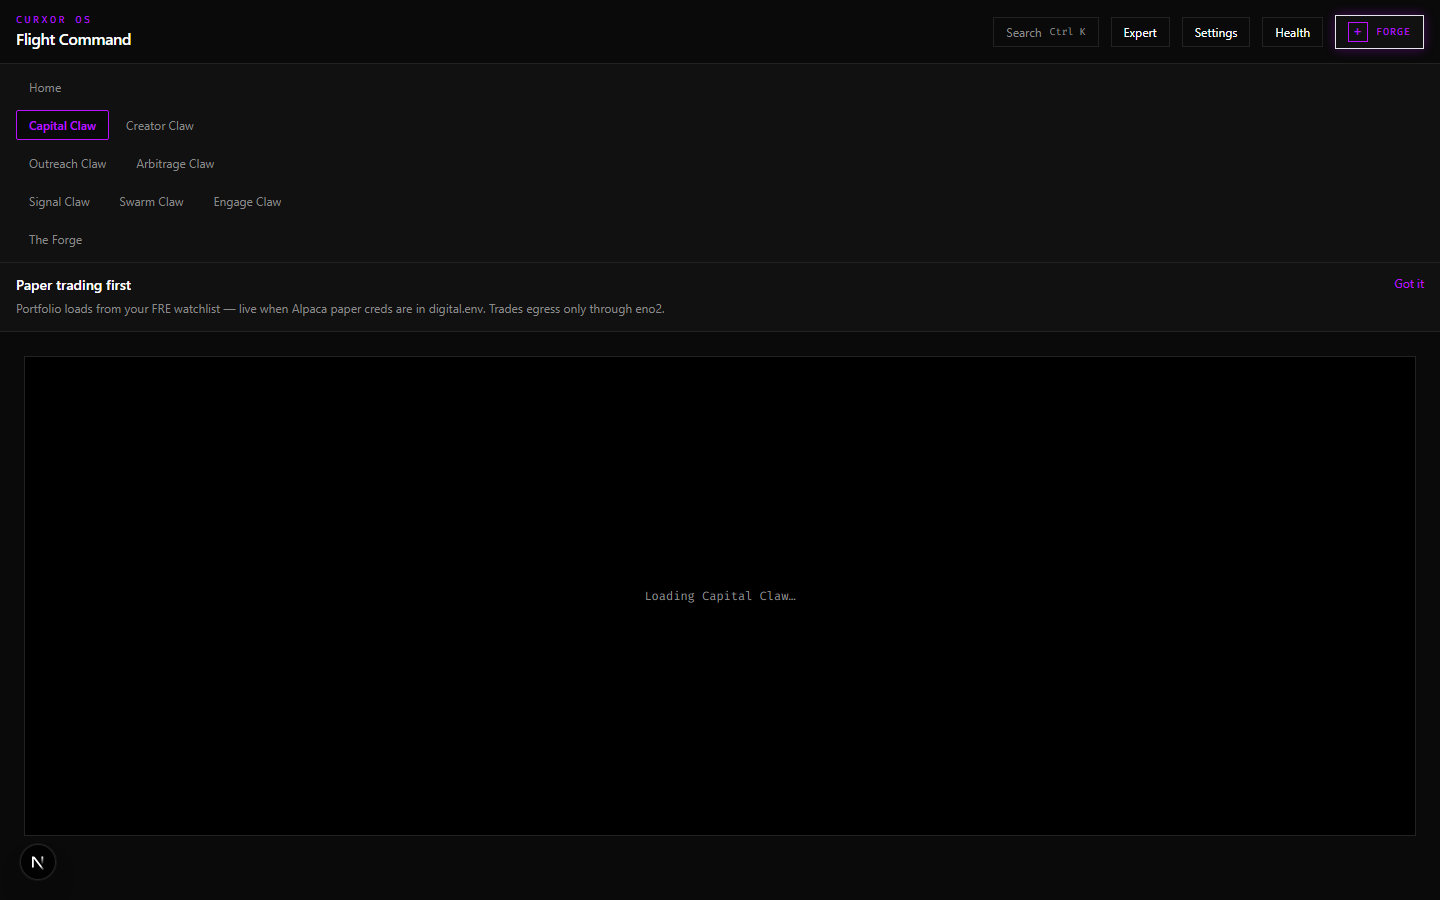
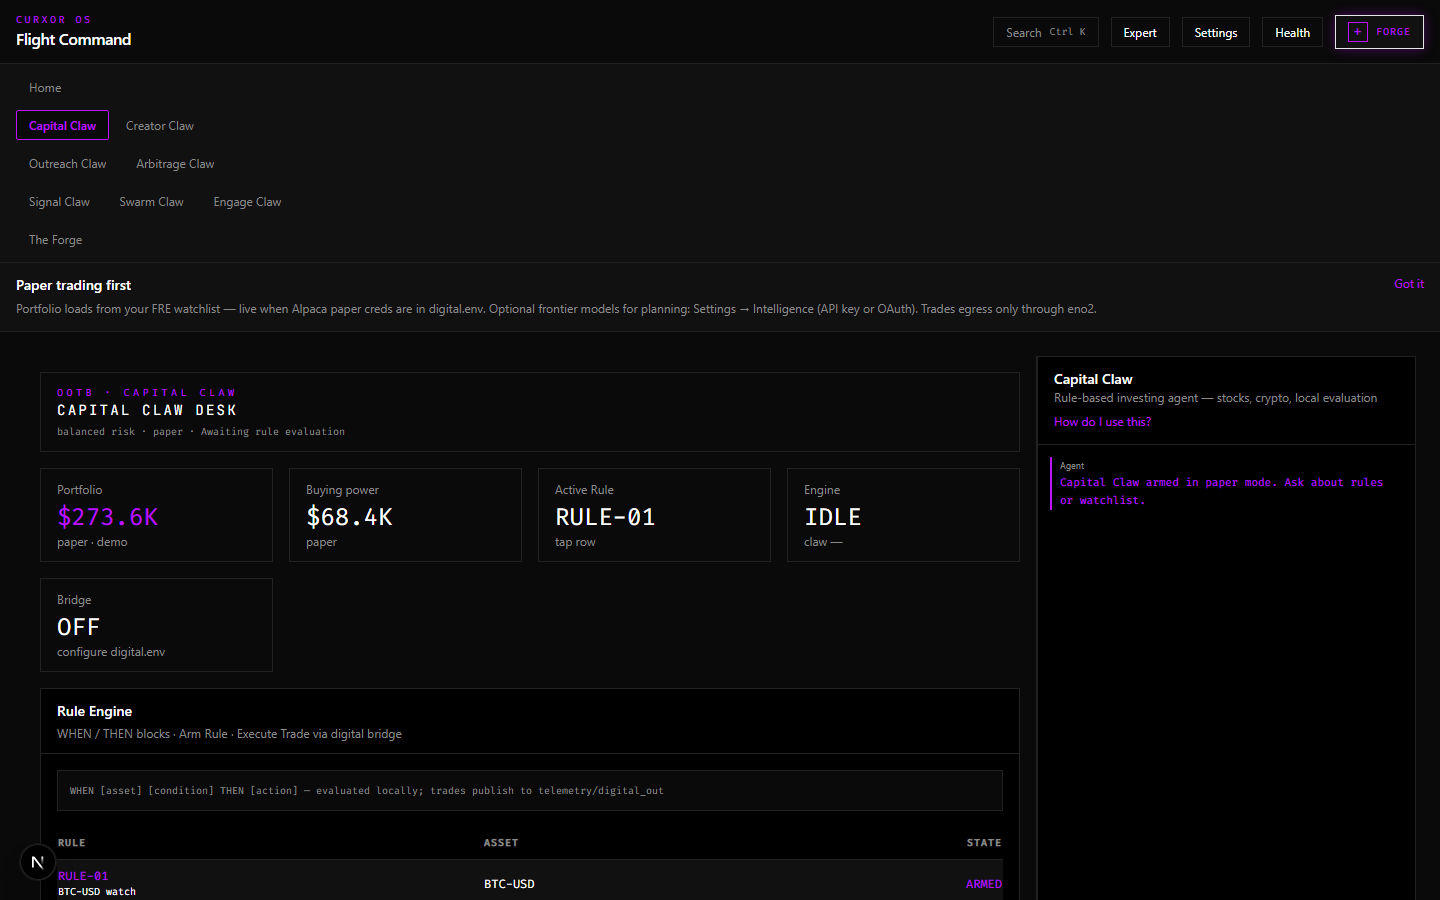
Add release-notes.json and demo capture troubleshooting docs.

diff --git a/docs/demo-pack/README.md b/docs/demo-pack/README.md
@@ -1,53 +1,81 @@
-# Flight Command demo pack
-
-Screenshots and copy for storefront, pitch deck, and investor collateral.
-
-## Capture screenshots
-
-1. Start the dashboard with dev-qa seed data:
-
-```bash
-cd pillar-4-dashboard
-export CURXOR_FRE_STATE_PATH=$PWD/scripts/dev-qa/fre-state.json
-export CURXOR_USER_SETTINGS_PATH=$PWD/scripts/dev-qa/user-settings.json
-export CURXOR_APP_FRE_DIR=$PWD/scripts/dev-qa/app-fre
-npm run dev
-```
-
-2. Install Playwright Chromium (first time only):
-
-```bash
-npx playwright install chromium
-```
-
-3. Capture:
-
-```bash
-node scripts/capture-demo-screenshots.mjs
-# or: node scripts/capture-demo-screenshots.mjs --base http://127.0.0.1:3081
-```
-
-Output: `docs/demo-pack/screenshots/`
-
-| File | Route | Use |
-|------|-------|-----|
-| `01-home.png` | `/home` | Landing hero, day-one story |
-| `02-settings.png` | `/settings` | User freedom — Claws, intelligence, appearance |
-| `03-capital-claw.png` | `/my-capital` | Wealth Claw workspace |
-| `04-forge.png` | `/claw-forge` | Create-to-earn |
-| `05-vital-claw.png` | `/my-vital` | Life & family — longevity desk |
-| `06-kin-claw.png` | `/my-family` | Life & family — household profiles |
-
-Copy these into `curxor storefront/public/demo/` when updating GTM assets.
-
-## PDF documentation
-
-From repo root (Linux/WSL with pandoc):
-
-```bash
-./docs/scripts/export-guides-pdf.sh
-# Release bundle:
-./docs/scripts/export-guides-pdf.sh --release
-```
-
-Output: `docs/pdf/`
+# Flight Command demo pack
+
+Screenshots and copy for storefront, pitch deck, and investor collateral.
+
+## Capture screenshots
+
+1. Start the dashboard with dev-qa seed data (PowerShell):
+
+```powershell
+cd pillar-4-dashboard
+$env:CURXOR_FRE_STATE_PATH="$PWD\scripts\dev-qa\fre-state.json"
+$env:CURXOR_USER_SETTINGS_PATH="$PWD\scripts\dev-qa\user-settings.json"
+$env:CURXOR_APP_FRE_DIR="$PWD\scripts\dev-qa\app-fre"
+npm run dev
+```
+
+Bash equivalent:
+
+```bash
+cd pillar-4-dashboard
+export CURXOR_FRE_STATE_PATH=$PWD/scripts/dev-qa/fre-state.json
+export CURXOR_USER_SETTINGS_PATH=$PWD/scripts/dev-qa/user-settings.json
+export CURXOR_APP_FRE_DIR=$PWD/scripts/dev-qa/app-fre
+npm run dev
+```
+
+2. Install Playwright Chromium (first time only):
+
+```bash
+npx playwright install chromium
+```
+
+3. Capture all routes:
+
+```bash
+node scripts/capture-demo-screenshots.mjs
+# or: node scripts/capture-demo-screenshots.mjs --base http://127.0.0.1:3080
+```
+
+Single route (waits for page text, 6s settle after load):
+
+```bash
+node scripts/capture-one-demo.mjs /my-vital 05-vital-claw.png "Longevity protocol desk"
+node scripts/capture-one-demo.mjs /my-family 06-kin-claw.png "Household context hub"
+```
+
+Output: `docs/demo-pack/screenshots/`
+
+| File | Route | Use |
+|------|-------|-----|
+| `01-home.png` | `/home` | Landing hero, day-one story |
+| `02-settings.png` | `/settings` | User freedom — Claws, intelligence, appearance |
+| `03-capital-claw.png` | `/my-capital` | Wealth Claw workspace |
+| `04-forge.png` | `/claw-forge` | Create-to-earn |
+| `05-vital-claw.png` | `/my-vital` | Life & family — longevity desk |
+| `06-kin-claw.png` | `/my-family` | Life & family — household profiles |
+
+Copy these into `curxor storefront/public/demo/` when updating GTM assets.
+
+## Troubleshooting
+
+| Symptom | Fix |
+|---------|-----|
+| `/my-vital` shows Home hub | Sync `selectedApps` in `scripts/dev-qa/user-settings.json` with `fre-state.json` — middleware and `DesktopRouteGuard` read different files |
+| Page stuck on "Loading … Claw" | Wait for Next.js compile to finish; do not capture during hot reload |
+| Blank or tiny PNG (~7KB) | Stop dev server, delete `pillar-4-dashboard/.next`, restart with env vars above |
+| Playwright timeout on `networkidle` | Do not use `networkidle` — SSE streams on `/api/stream/*` never idle. Use `capture-one-demo.mjs` (domcontentloaded + wait) |
+| Redirect to `/setup` | Ensure `fre-state.json` has `"initialized": true` and `/api/setup/status` returns 200 before capture |
+
+## PDF documentation
+
+From repo root (Linux/WSL with pandoc):
+
+```bash
+./docs/scripts/export-guides-pdf.sh
+# Release bundle:
+./docs/scripts/export-guides-pdf.sh --release
+```
+
+Output: `docs/pdf/`
+